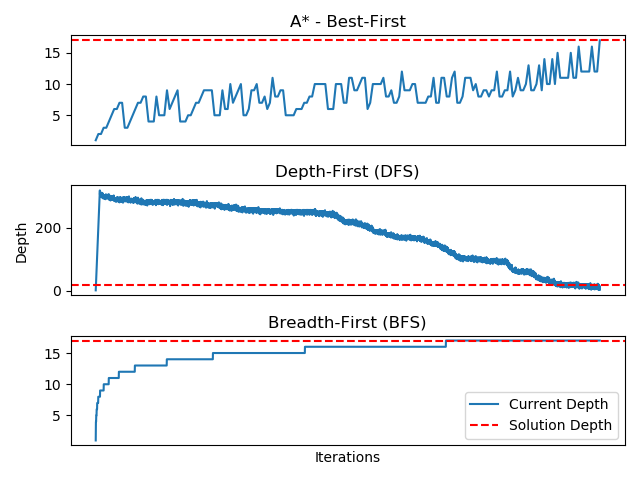
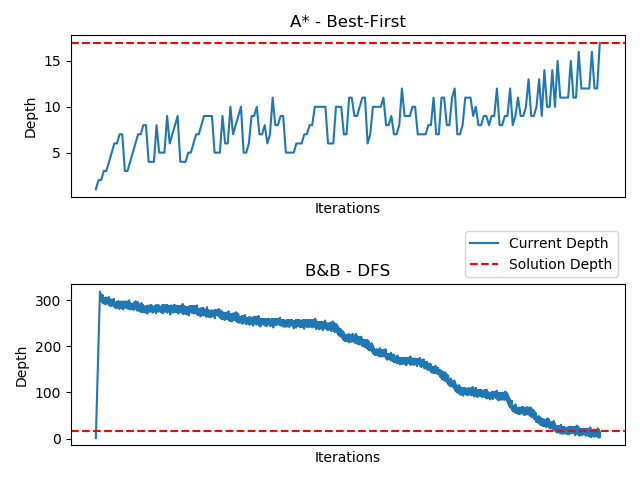
Update: move BFS behind the scenes

diff --git a/main.py b/main.py
@@ -32,20 +32,6 @@ def user_choose_solver():
         except KeyError:
             print('Please choose one of the requested letters')
 
-    # Choose search type
-    if algorithm == 'bnb':
-        types = {'d': 'dfs', 'b': 'bfs'}
-
-        while True:
-            try:
-                user_type = input('DFS (d) or BFS (b)?\n').lower()
-                search_type = types[user_type]
-                break
-            except KeyError:
-                print('Please choose one of the requested letters')
-    else:
-        search_type = None
-
     # Choose h function
     h_functions = {'ma': h_manhattan, 'e': h_euclidean, 'mi': h_misplaced}
     while True:
@@ -60,7 +46,7 @@ def user_choose_solver():
 
             print('Please choose one of the requested letters')
 
-    return algorithm, search_type, h_function
+    return algorithm, h_function
 
 
 def solve_puzzle():
@@ -76,11 +62,11 @@ def solve_puzzle():
     init_state = EightPuzzle.init_table()
 
     # Get the user solver preferences
-    algorithm, search_type, h_function = user_choose_solver()
+    algorithm, h_function = user_choose_solver()
 
     # Solve the init table
     puzzle = EightPuzzle(init_state, goal_state)
-    solution = puzzle.solve(algorithm, h_function, search_type)
+    solution = puzzle.solve(algorithm, h_function)
 
     # Print solution
     print('Solution Way:')
@@ -213,27 +199,27 @@ def plot_depths():
     dfs = np.loadtxt("figures_data/depths/depths_dfs.txt", comments="#", delimiter=",", unpack=False)
     a_star = np.loadtxt("figures_data/depths/depths_astar.txt", comments="#", delimiter=",", unpack=False)
 
-    fig, axs = plt.subplots(3)
+    fig, axs = plt.subplots(2)
 
     # Plot
     axs[0].plot(a_star)
-    axs[1].plot(dfs)
-    axs[2].plot(bfs, label='Current Depth')
+    axs[1].plot(dfs, label='Current Depth')
 
     # Add titles
     axs[0].set_title('A* - Best-First')
     axs[1].set_title('B&B - DFS')
-    axs[2].set_title('B&B - BFS')
 
     # Add axis-labels
-    axs[2].set_xlabel('Iterations')
+    axs[0].set_xlabel('Iterations')
+    axs[1].set_xlabel('Iterations')
     axs[1].set_ylabel('Depth')
+    axs[0].set_ylabel('Depth')
 
     for ax in axs:
         ax.set_xticks([])
         ax.axhline(17, color='red', linestyle='--', label='Solution Depth')
 
-    axs[2].legend(loc='lower right', bbox_to_anchor=(1, 0))
+    axs[1].legend(loc='lower right', bbox_to_anchor=(1, 1))
 
     plt.show()
 

diff --git a/EightPuzzle.py b/EightPuzzle.py
@@ -37,7 +37,7 @@ class EightPuzzle:
 
         return self.reconstruct_solution(self.solution)
 
-    def bnb_solve(self, h_function, search_type, verbose=True, init_ub=np.inf):
+    def bnb_solve(self, h_function, search_type='dfs', verbose=True, init_ub=np.inf):
         """
         This method implement Branch & Bound algorithm.
         The implementation define according to the search_type argument with to search depth first or breadth first.
@@ -50,7 +50,7 @@ class EightPuzzle:
 
         # Ensure the search type
         if search_type.lower() not in ['bfs', 'dfs']:
-            raise NotImplementedError('The search type is not implemented yet.')
+            raise NotImplementedError('The search traverse was not implemented yet.')
 
         # Init params
         solution = None
